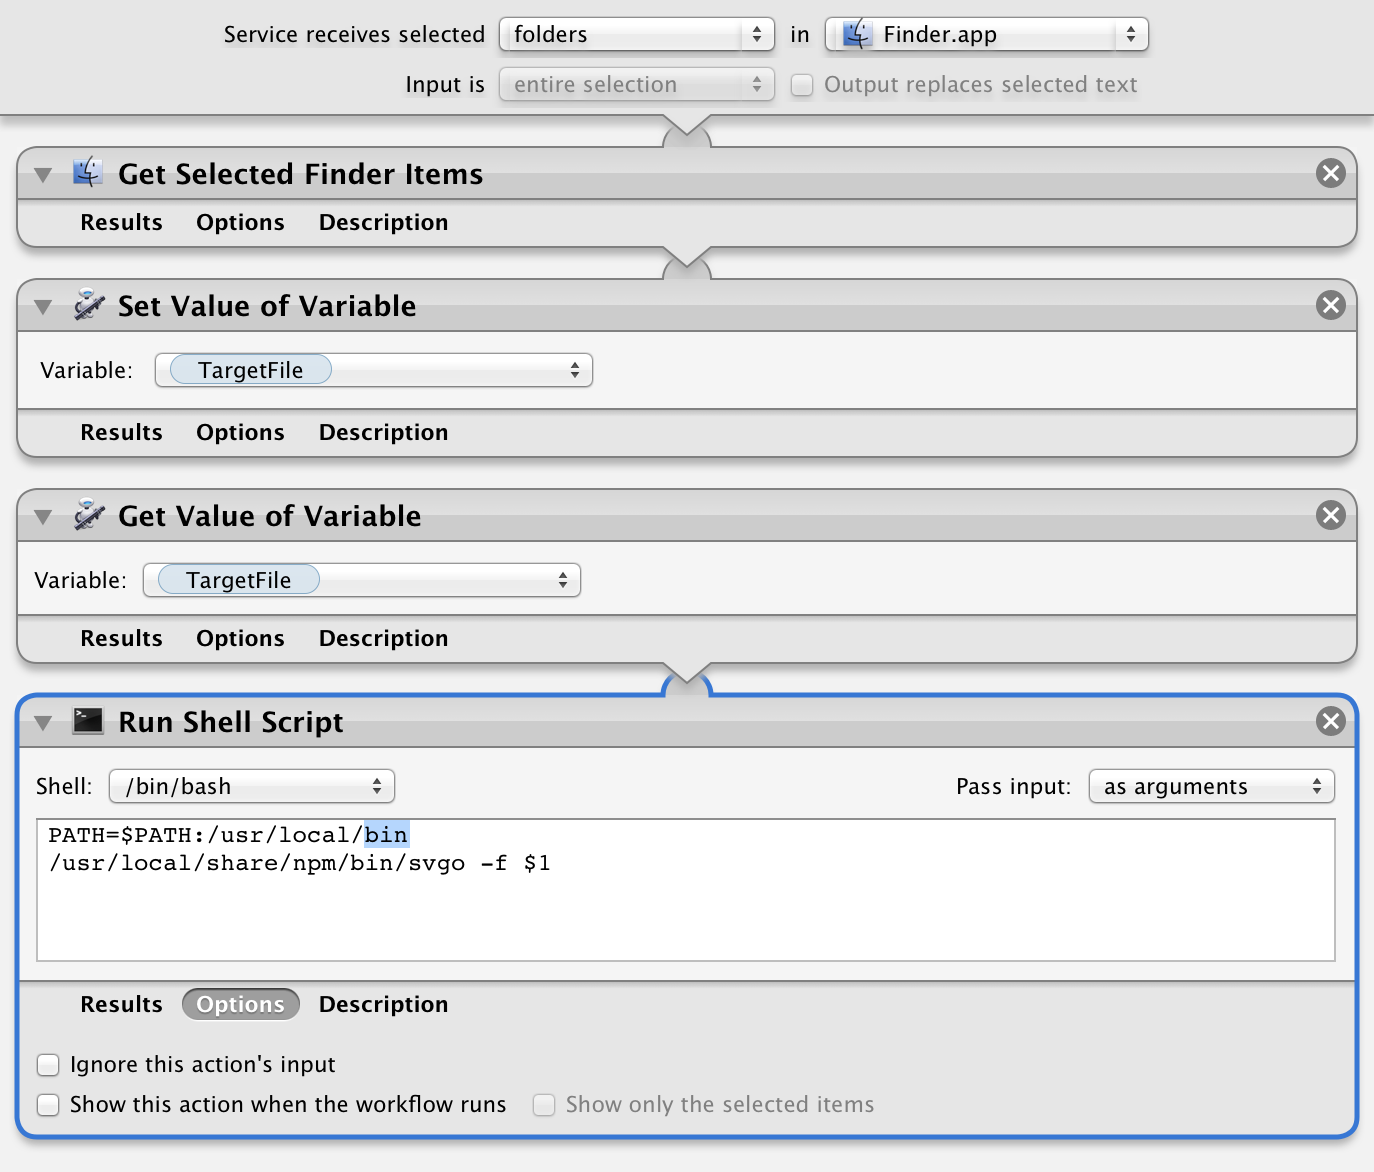
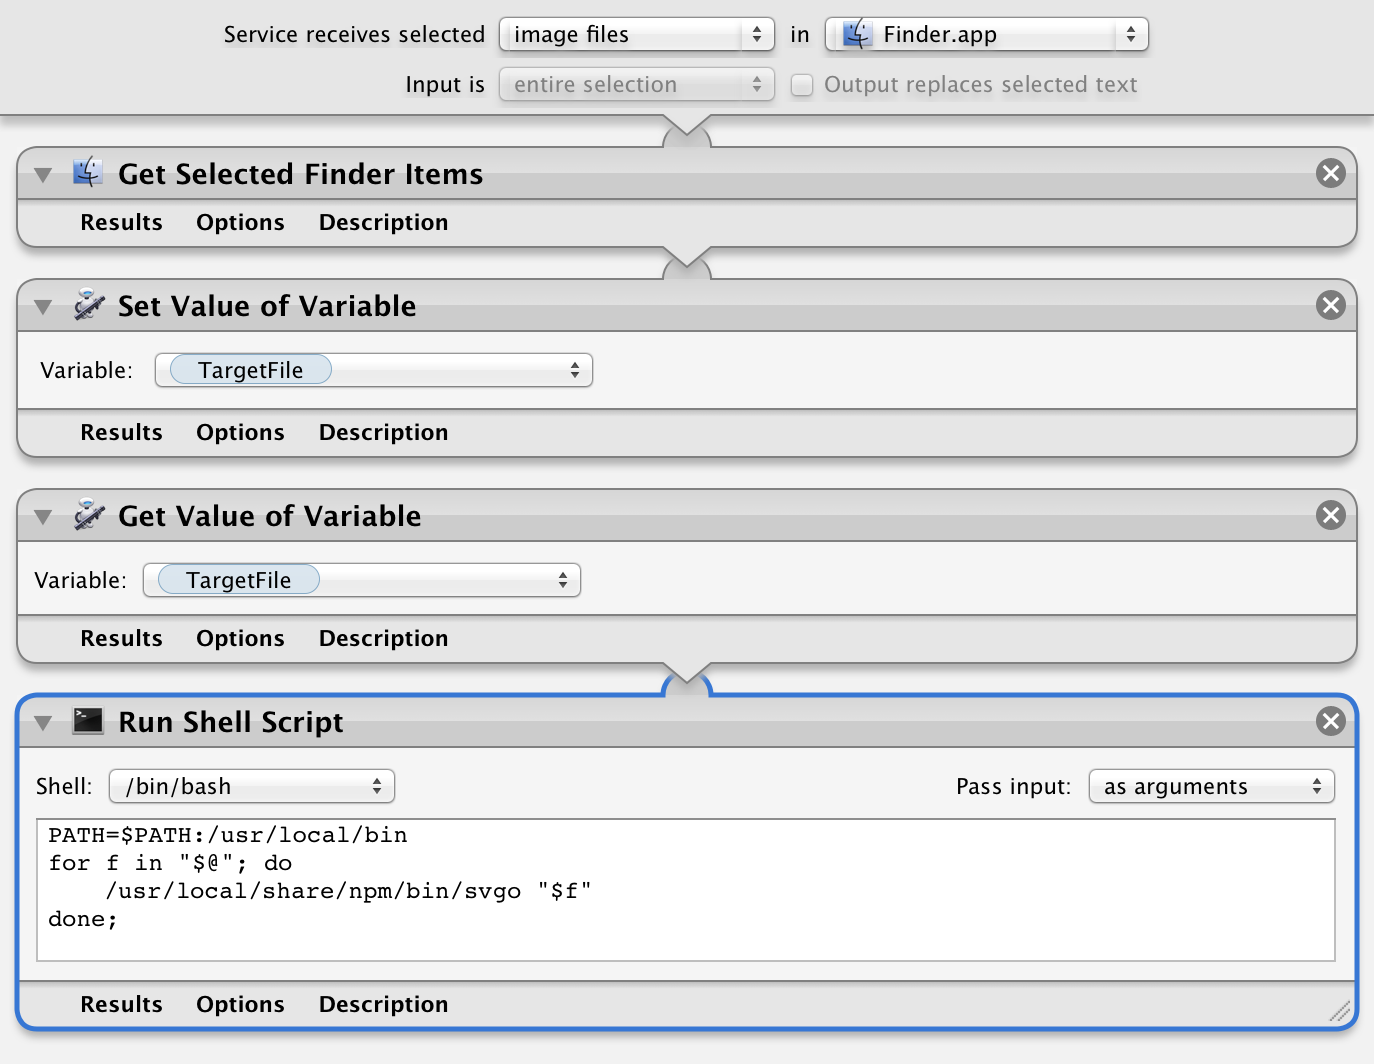
Convert “Compress SVG with SVGO” workflow from a folder action to a file action

diff --git a/README.md b/README.md
@@ -66,7 +66,7 @@ Create distributable, cross-platform hybrid DMG images using `hdiutil`, select a
 **Note**: This script doens’t create “fancy” DMG for your OS X app.
 
 ### Compress SVG with SVGO
-Compress all SVG files in a folder (folder workflow) with [svgo](https://github.com/svg/svgo), `svgo` must be installed before using this workflow. Please note that since `svgo` is a third-party script, it’s [by design](http://developer.apple.com/library/mac/#technotes/tn2065/_index.html) that this script does NOT inherit the `$PATH` variable from your environment, you have to use full path for your `svgo` location, in this workflow, the path of `svgo` is `/usr/local/share/npm/bin/svgo`. (node and npm installed by [Homebrew](http://mxcl.github.io/homebrew/)).
+Compress selected SVG files with [svgo](https://github.com/svg/svgo), `svgo` must be installed before using this workflow. Please note that since `svgo` is a third-party script, it’s [by design](http://developer.apple.com/library/mac/#technotes/tn2065/_index.html) that this script does NOT inherit the `$PATH` variable from your environment, you have to use full path for your `svgo` location, in this workflow, the path of `svgo` is `/usr/local/share/npm/bin/svgo`. (node and npm installed by [Homebrew](http://mxcl.github.io/homebrew/)).
 
 ### Compress PNG with OptiPNG
 Compress selected PNG files with [OptiPNG](http://optipng.sourceforge.net/), `optipng` must be installed before using this workflow. Please note that since `optipng` is a third-party script, it’s [by design](http://developer.apple.com/library/mac/#technotes/tn2065/_index.html) that this script does NOT inherit the `$PATH` variable from your environment, you have to use full path for your `optipng` location, in this workflow, the path of `optipng` is `/usr/local/bin/optipng`. (Installed by [Homebrew](http://mxcl.github.io/homebrew/)).
